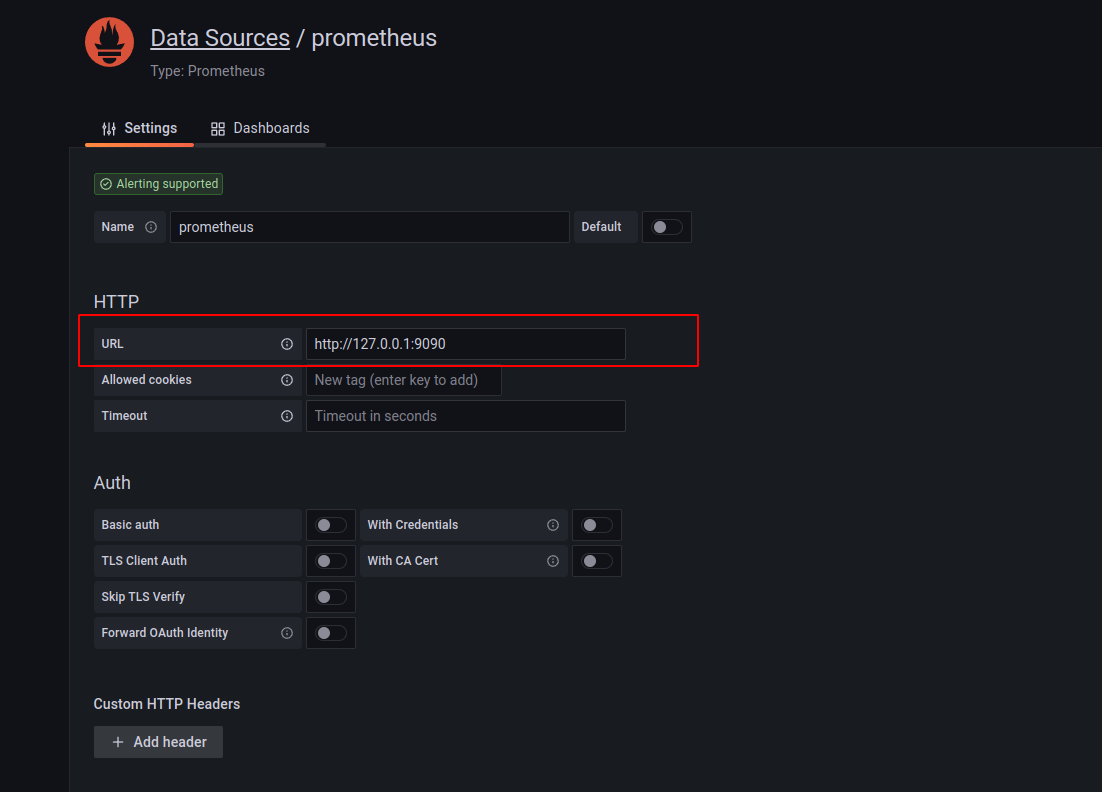
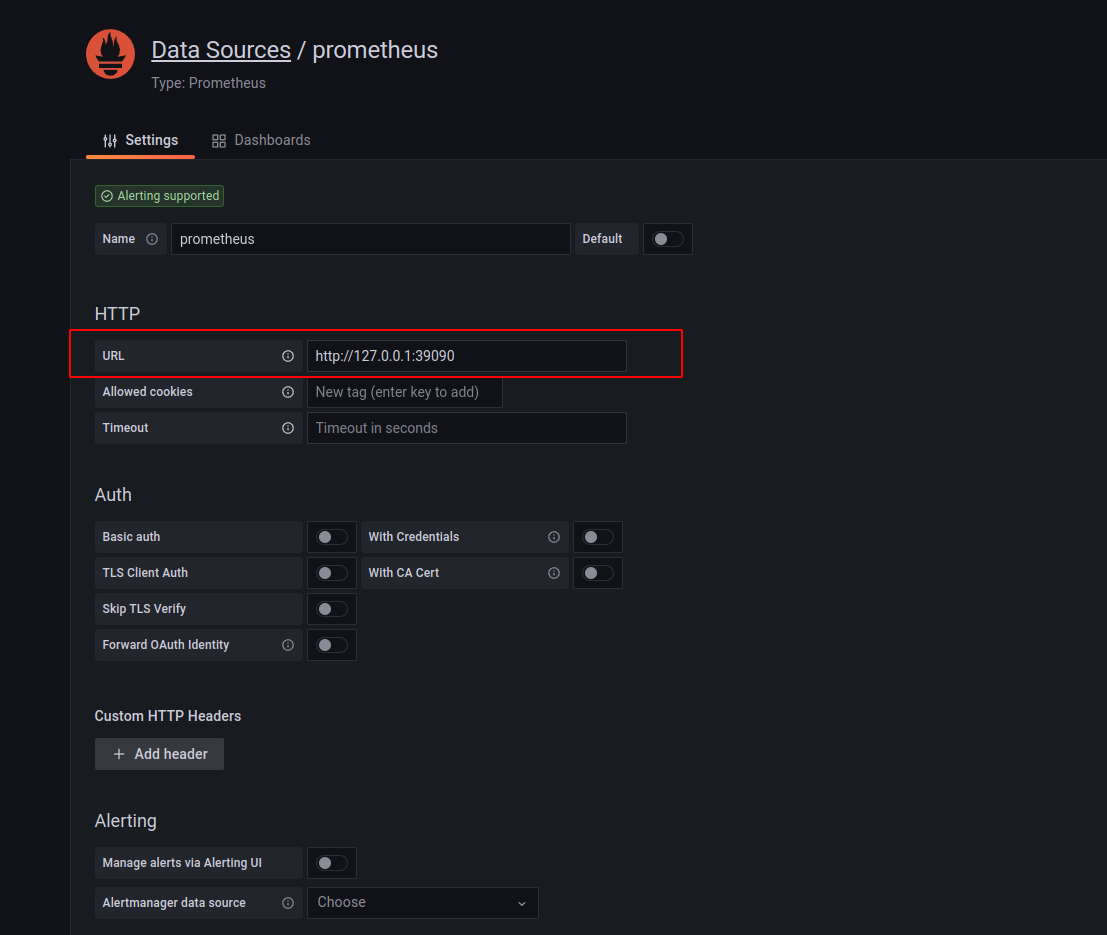
Update doc

diff --git a/docs/get-started/getting-started-alluxio.md b/docs/get-started/getting-started-alluxio.md
@@ -448,12 +448,17 @@ For example:
 
 ### Monitor Alluxio live metrics based on Grafana with Prometheus
 
-#### Save Alluxio historic Prometheus format metrics
+#### Config Prometheus when creating Databricks cluster
 When creating a Databricks cluster via the Docker container for Databricks,   
-Set PROMETHEUS_COPY_DATA_PATH, for example:   
-`PROMETHEUS_COPY_DATA_PATH=/dbfs/path/to/directory`   
-![img](../img/Databricks/save-prometheus.png)
-The cluster will install Prometheus and save Prometheus-format metrics into the path specified.  
+Set Environment variable ENABLE_ALLUXIO and PROMETHEUS_COPY_DATA_PATH, for example:   
+```
+ENABLE_ALLUXIO=1
+PROMETHEUS_COPY_DATA_PATH=/dbfs/chongg/dblogs-prometheus
+``` 
+![img](../img/Databricks/save-prometheus.png)   
+The cluster will install Prometheus, configure Prometheus to collect the metrics into its own storage,    
+and also save Prometheus-format metrics into the path specified for back up purpose.    
+Note: If not set `ENABLE_ALLUXIO`, `PROMETHEUS_COPY_DATA_PATH` will not take effect.   
 For more details, refer to [spark-rapids-Databricks-container](https://github.com/NVIDIA/spark-rapids-container/tree/dev/Databricks)
 
 #### Install and start Grafana locally
@@ -481,7 +486,7 @@ It's similar to the tunnel method described in [the previous section](#Monitor A
 #### Config local Grafana to monitor the live metrics
 The main flows are:   
 1. Create a Prometheus datasource in Grafana,   
-   the default URL of Prometheus datasource is: http://localhost:39090.   
+   the URL of Prometheus datasource is: http://localhost:39090, note: the SSH tunnel port.   
    Refer to the [tutorial](https://grafana.com/docs/grafana/latest/datasources/add-a-data-source/#add-a-data-source) for help on importing a dashboard.   
    ![img](../img/Databricks/prometheus-datasource.png)   
 2. [Download](https://grafana.com/grafana/dashboards/13467) the Grafana template JSON file for Alluxio.   
@@ -518,7 +523,7 @@ The differences are:
 
 The steps are as following:   
 
-#### [Save Alluxio historic Prometheus-format metrics](#Save Alluxio historic Prometheus format metrics)
+#### [Save Alluxio historic Prometheus-format metrics](#Config Prometheus when creating Databricks cluster)
 
 #### [Install and start Grafana locally](#Install and start Grafana locally)
 
@@ -558,6 +563,3 @@ Refer to [the section](#View a specific live Alluxio metrics in Prometheus Web U
 The difference is:   
 The prometheus datasource is local instead of the remote prometheus on Databricks cluster.   
 Open Prometheus Web UI: http://localhost:9090/graph.   
-
-### Useful metrics for performance monitoring
-TODO: will add useful metrics   
